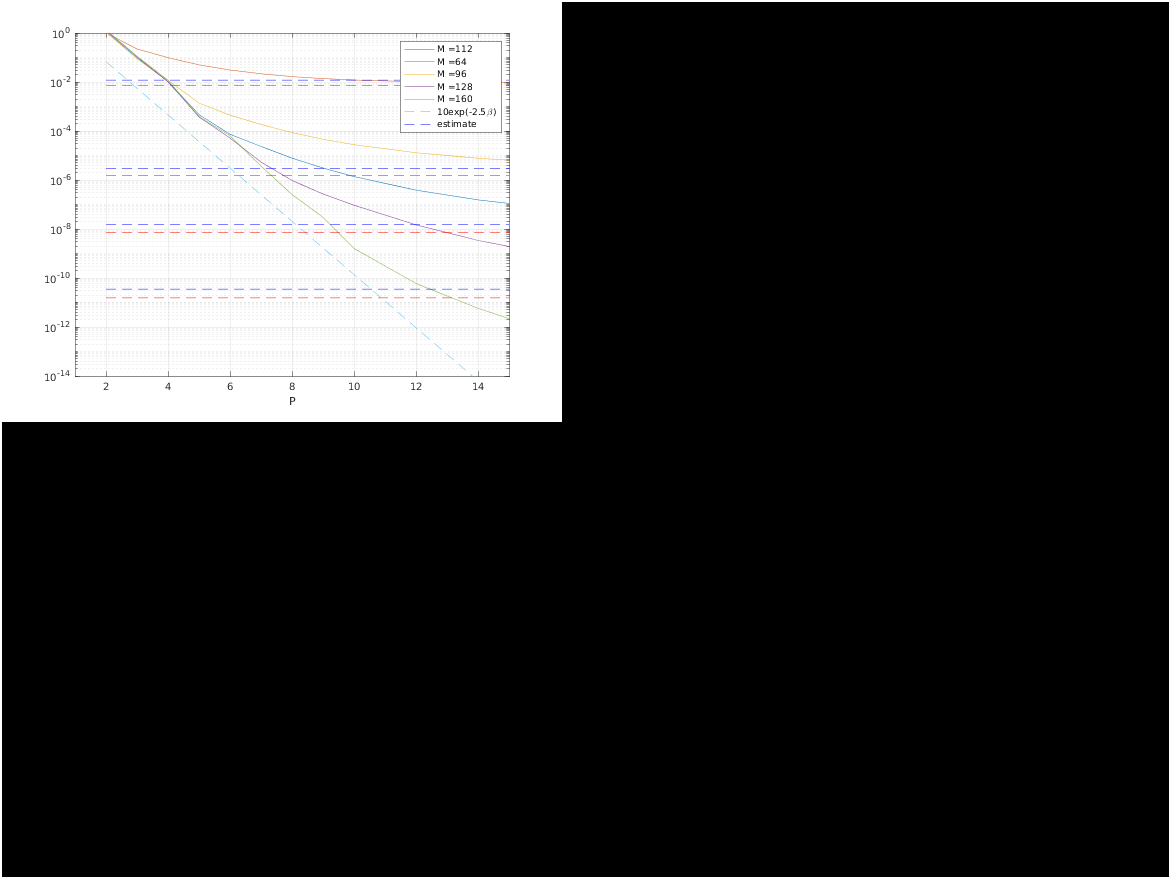
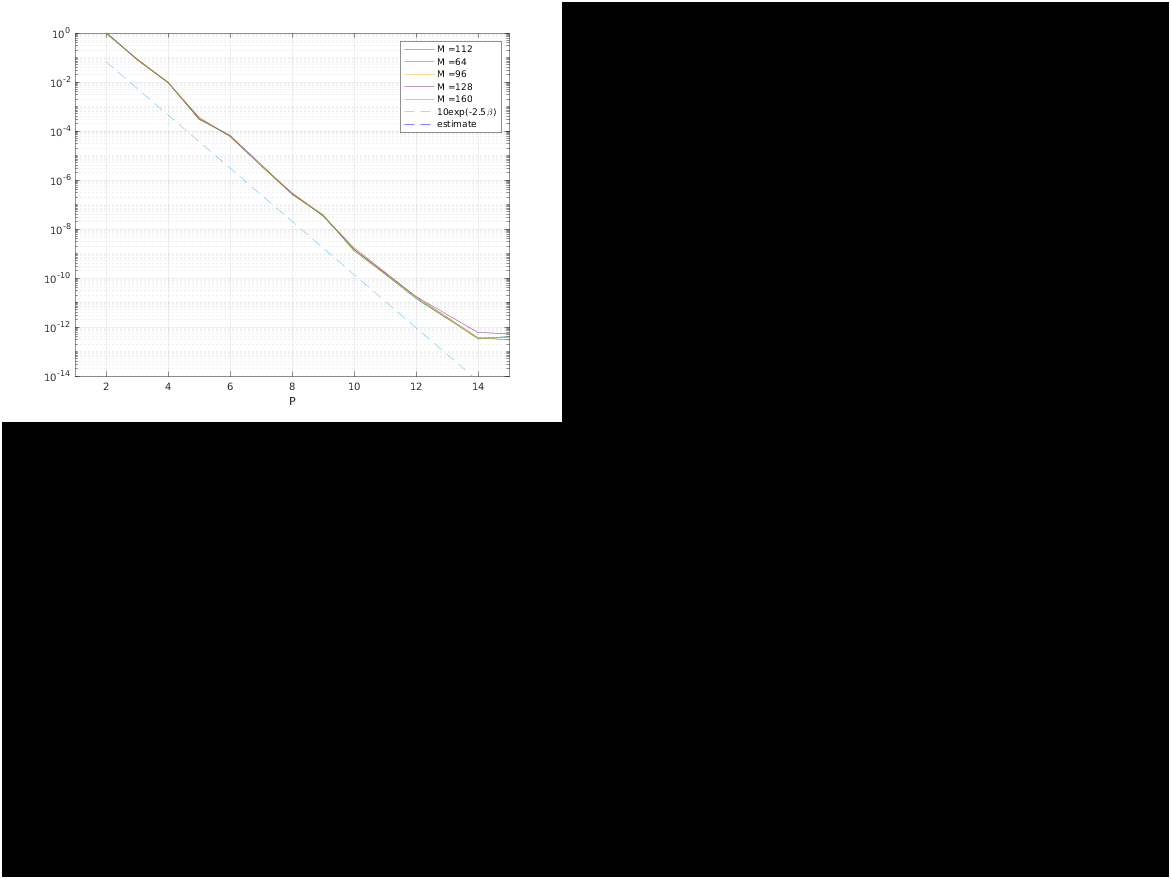
imgs

diff --git a/SE_Stokes_run/SE3P_Stokes/P_error.m b/SE_Stokes_run/SE3P_Stokes/P_error.m
@@ -8,7 +8,7 @@ N = 1000; % number of source particles
 
 
 %% Parameter selection
-L = 2; % box side length
+L = 1; % box side length
 box = [L L L]; % periodic box
 opt.box = box;
 
@@ -17,7 +17,7 @@ opt.box = box;
 
 M0 = 128; % Set M0=M/L, the restu * 1+ is automatic
 opt.M = M0*[1,1,1];
-opt.xi = 20;
+opt.xi = 5;
 opt.betaP = 2.5;
 opt.c = sqrt(0.91);
 %opt.window = 'kaiser_exact';
@@ -50,8 +50,10 @@ str = {};
 est_old = @(M,xi,L,f) sqrt(f)*(xi^3*L^2/(pi^4*(M/2)^(3/2)))*exp(-(pi*(M/2)/(xi*L))^2);
 %est = @(M,xi,L,f) sqrt(f)*(4/(3^(1/4)*L*pi))*exp(-(pi*M/(xi*L*2))^2);
 est = @(M,xi,L,F) 2*sqrt(F)*(xi*L)^2*exp(-(pi*(M/2)/(xi*L))^2)/(sqrt(3)*pi^2*L*(M/2));
+est_small = @(M,xi,L,F) 4*sqrt(F)/(sqrt(3)*pi*L)*exp(-(pi*M/(2*xi*L))^2);
 e_vec = [];
 ee_vec = [];
+eee_vec = [];
 F = sum(norm(f.^2));
 A = @(a,b,c) sqrt(a)*b*(b*c)^0;
 disp(num2str(A(F,opt.xi,opt.box(1))/rms_ref))
@@ -71,6 +73,8 @@ for M = [112 MM]
 	semilogy(PP,rms_err)
     ee = est_old(M,opt.xi,L,F);
     ee_vec = [ee_vec ee];
+    eee = est_small(M,opt.xi,L,F);
+    eee_vec = [eee_vec eee];
 	hold on
 	str = [str strcat('M = ',num2str(M))];
 end
@@ -85,6 +89,7 @@ end
 for i = 1:length(e_vec)
     semilogy(PP,ones(1,length(PP))*e_vec(i),('bl--'))
     semilogy(PP,ones(1,length(PP))*ee_vec(i),'r--')
+    semilogy(PP,ones(1,length(PP))*eee_vec(i),'g--')
 end
 str = [str,'estimate'];
 opt
